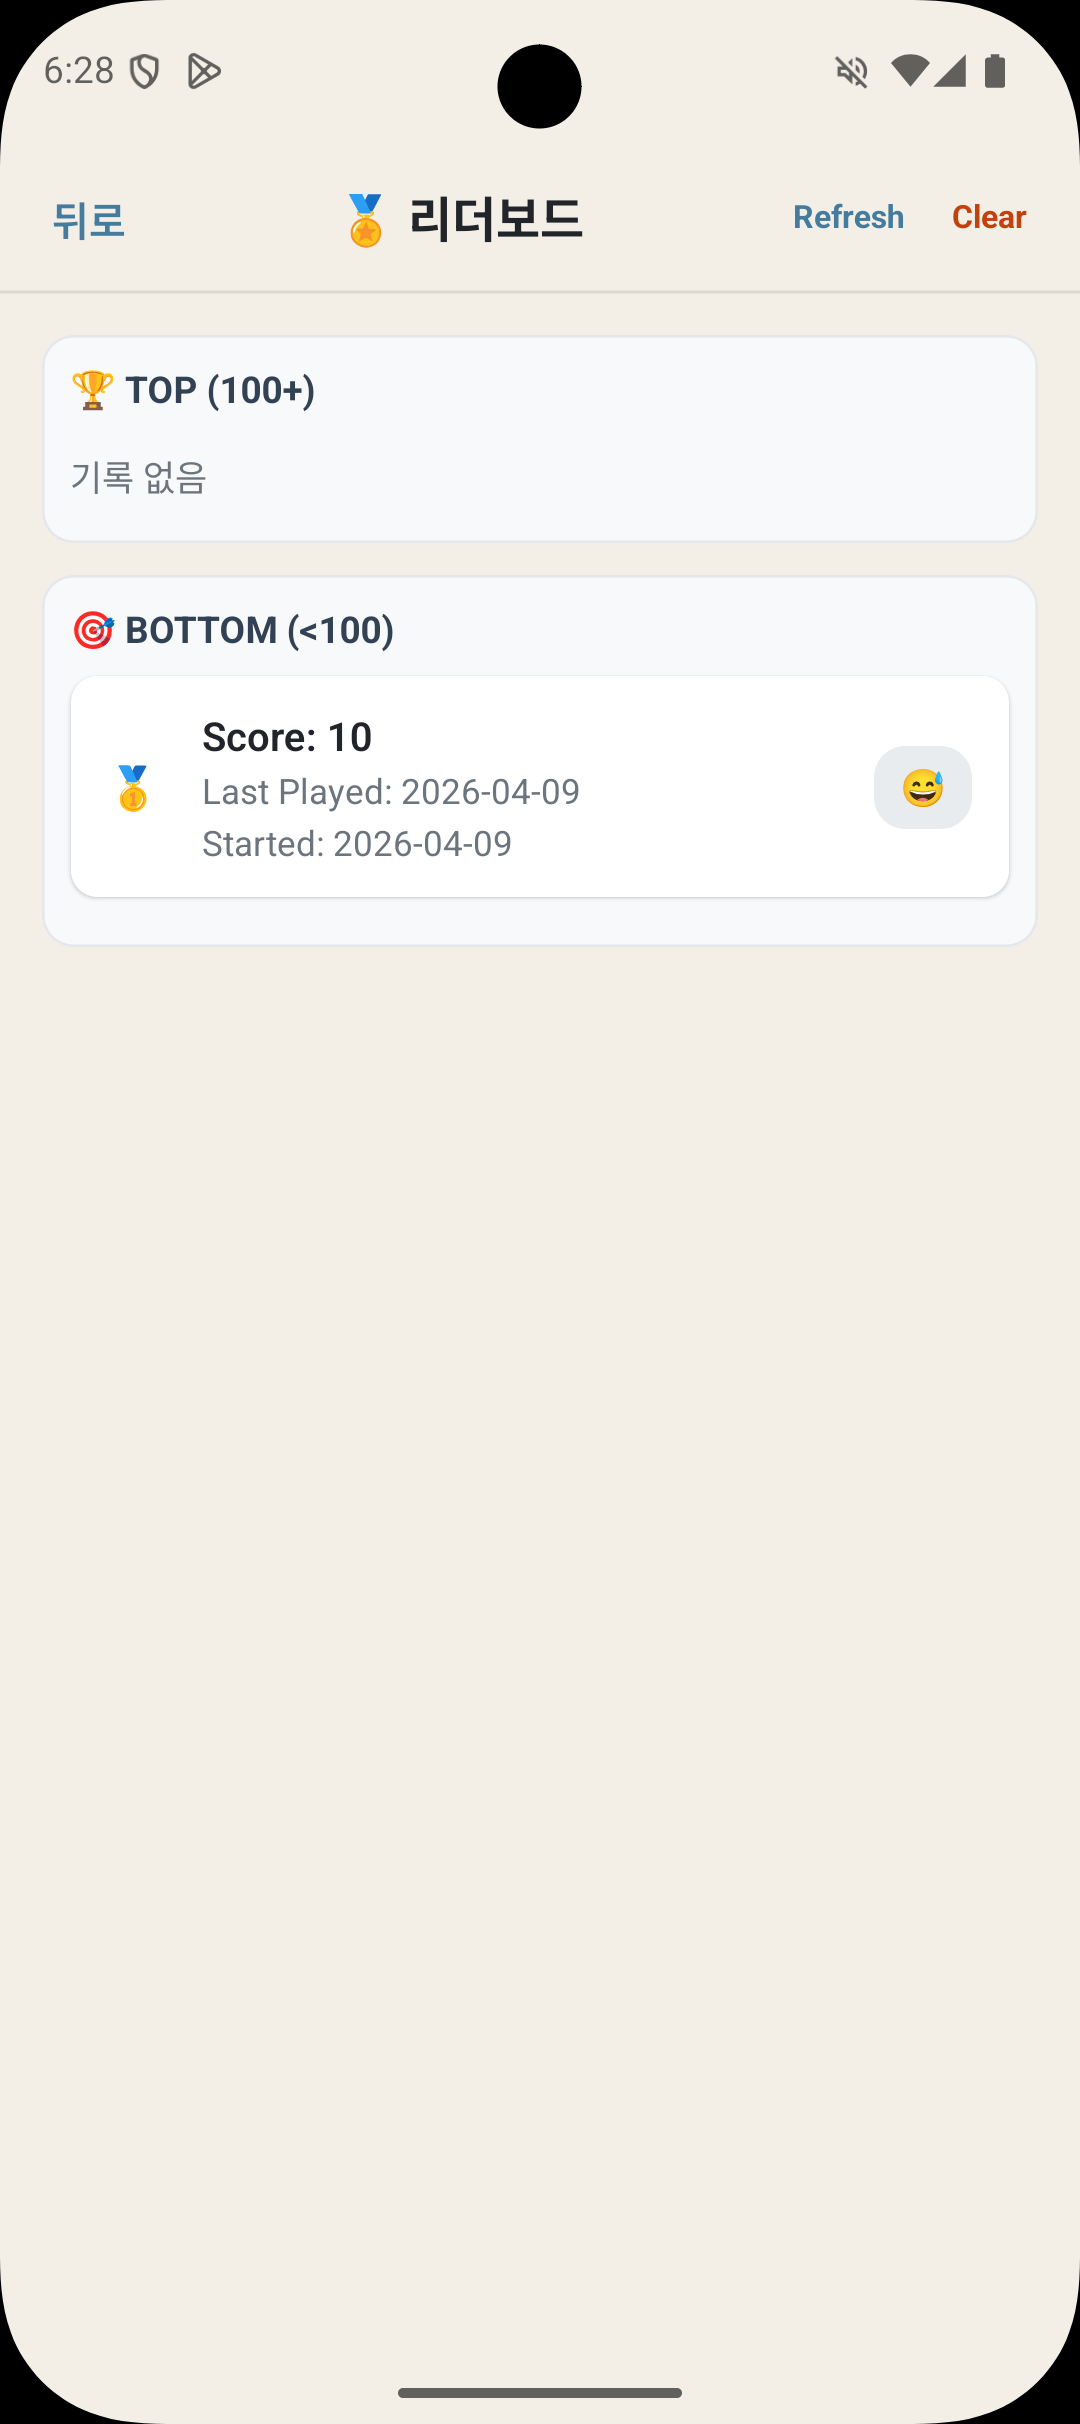
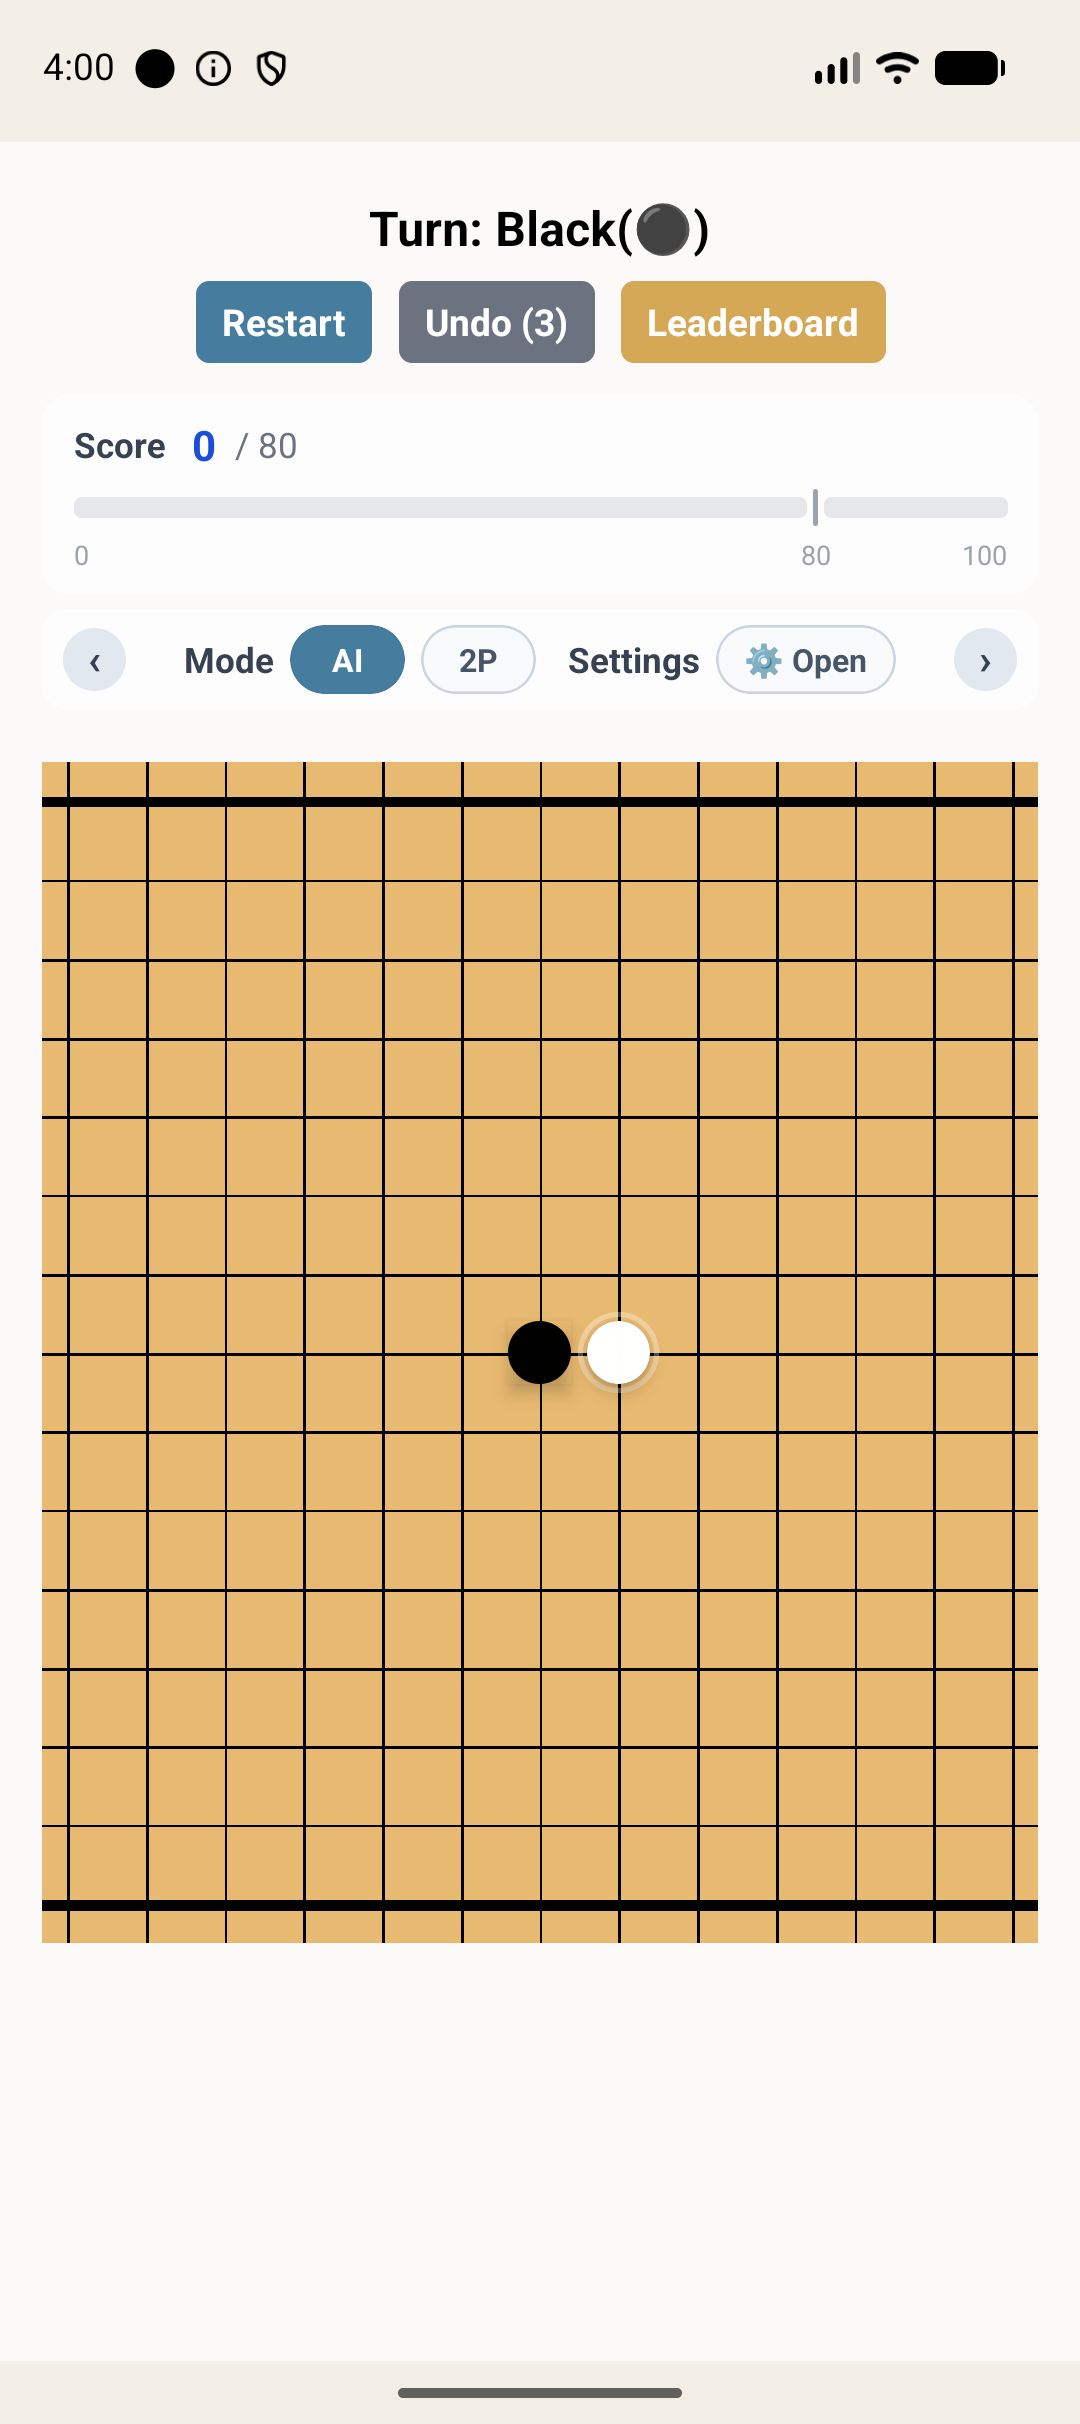
feat: Add new screenshot for Omok project

diff --git a/src/app/page.tsx b/src/app/page.tsx
@@ -202,7 +202,7 @@ const projects: IProject[] = [
     techStack: ["React Native", "TypeScript", "Expo", "Android", "iOS"],
     category: "mobile",
     note: "",
-    screenshotNames: ["omok-1.png", "omok-2.png", "omok-3.png"],
+    screenshotNames: ["omok-1.png", "omok-2.png", "omok-3.png", "omok-4.png"],
   },
   {
     id: "proj-mobile-6",
